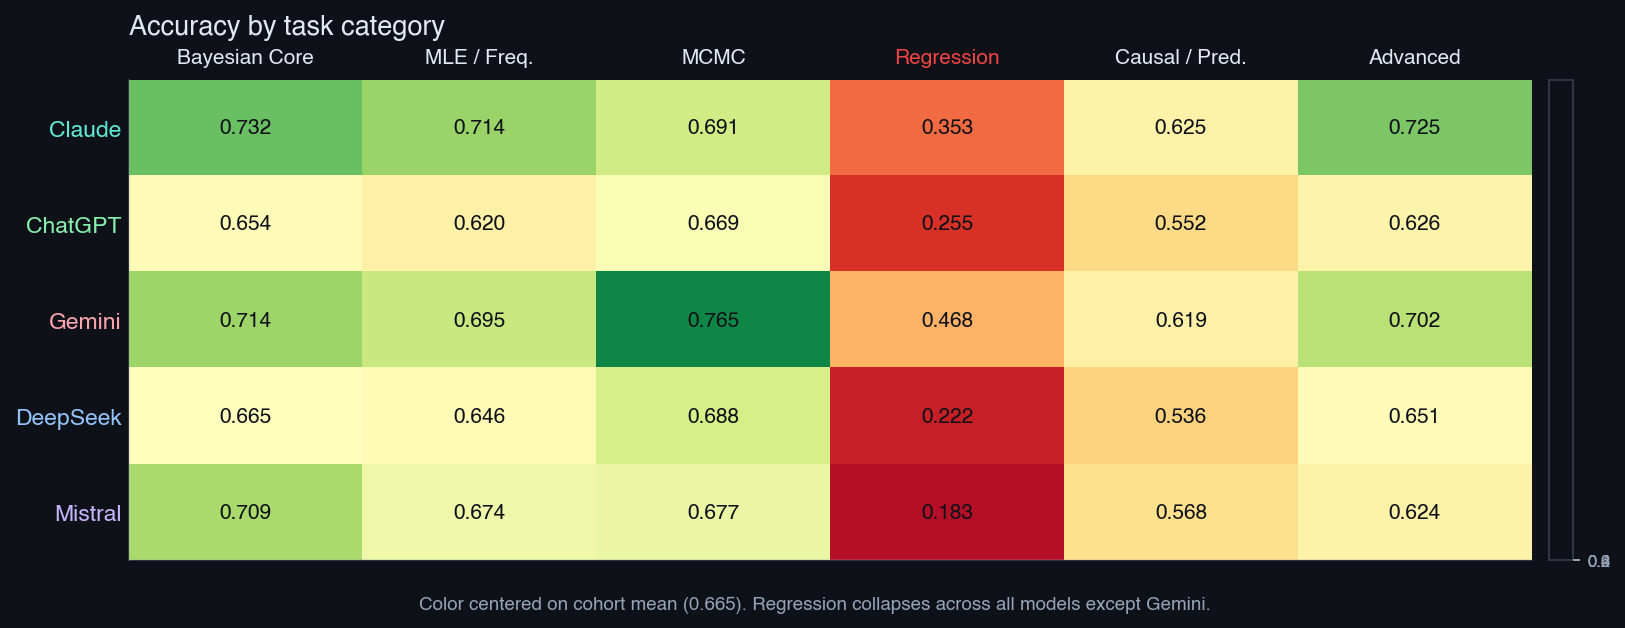
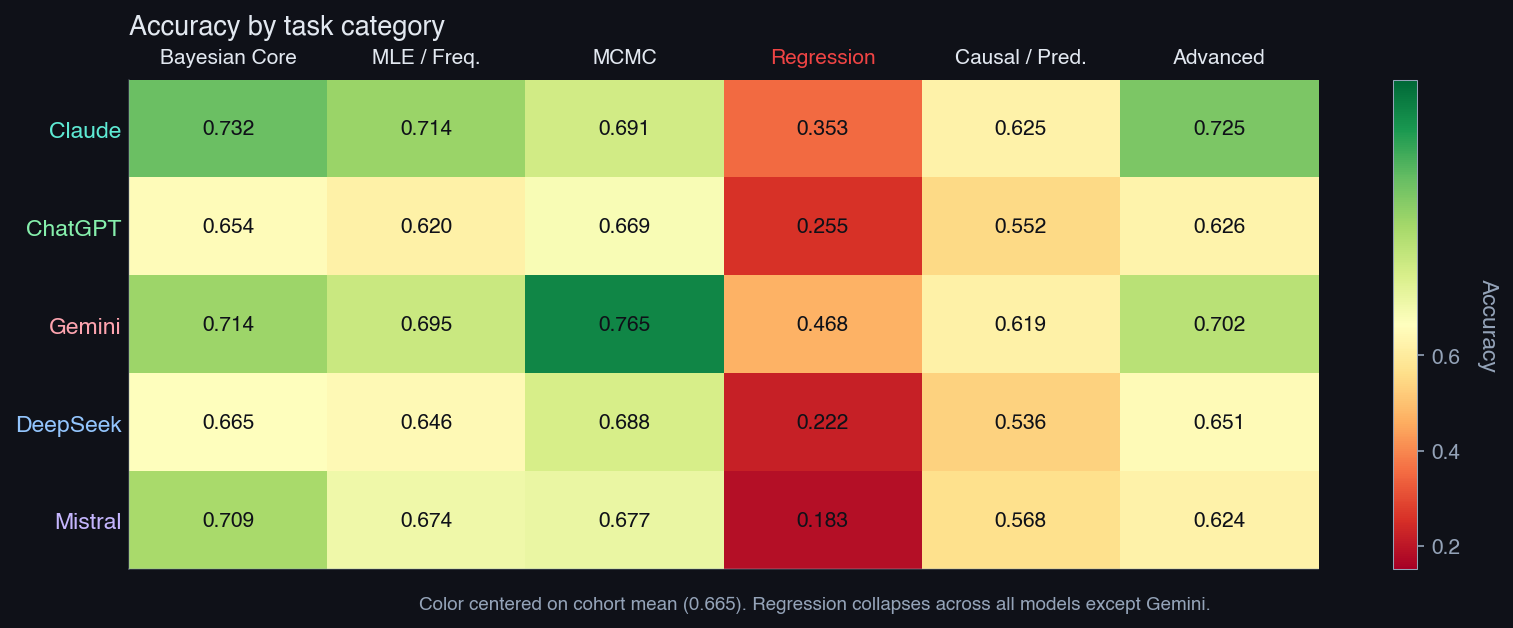
4 chart redesigns: judge heatmap teal+borders, robustness asterisk footer, calibration→dot plot, accuracy colorbar restored

diff --git a/capstone-website/frontend/src/data/visualizations.js b/capstone-website/frontend/src/data/visualizations.js
@@ -165,9 +165,9 @@ export const VISUALIZATIONS = [
   },
   {
     id: 'calibration_reliability', category: 'calibration',
-    title: 'Calibration gap detail',
-    subtitle: 'Per-bucket gap between claimed confidence and empirical accuracy',
-    caption: 'Negative cells = overconfident (claimed > observed); positive = underconfident. DeepSeek shows extreme swings (+0.20 at 0.5 → −0.21 at 0.6); Claude near-zero across buckets.',
+    title: 'Calibration gap by confidence bucket',
+    subtitle: 'Per-bucket signed gap, model × confidence-level',
+    caption: "Distance from zero shows miscalibration magnitude. DeepSeek's 0.6 bucket is severely overconfident (−0.21); Claude near-zero across buckets.",
     source: 'experiments/results_v2/calibration.json',
     png: '/visualizations/png/v2/calibration_reliability_smallmultiples.png',
   },

diff --git a/scripts/calibration_analysis.py b/scripts/calibration_analysis.py
@@ -251,15 +251,20 @@ def make_reliability_figure(per_model: dict, paths: list[Path]) -> None:
 
 
 def make_reliability_smallmultiples(per_model: dict, paths: list[Path]) -> None:
-    """5×3 calibration-gap heatmap: empirical accuracy − claimed confidence.
+    """Horizontal diverging dot plot: signed calibration gap by model × bucket.
 
-    Replaces the prior 1×5 reliability-diagram small-multiples. Filename
-    preserved so manifest paths stay valid.
+    5 model rows on y-axis × 3 confidence buckets per row (0.3 / 0.5 / 0.6),
+    marker size encodes bucket, marker color encodes gap direction/magnitude
+    via RdBu_r. Filename preserved so manifest paths stay valid.
     """
     import matplotlib.colors as mcolors
+    from site_palette import COLOR_GOOD, COLOR_BAD
 
-    bucket_order = ["low", "unstated", "medium"]
-    bucket_labels = ["0.3", "0.5", "0.6"]
+    buckets = [
+        ("low",      0.3, 80),
+        ("unstated", 0.5, 140),
+        ("medium",   0.6, 220),
+    ]
     models = ["claude", "chatgpt", "gemini", "deepseek", "mistral"]
     DISPLAY = {
         "claude":   "Claude",
@@ -269,49 +274,48 @@ def make_reliability_smallmultiples(per_model: dict, paths: list[Path]) -> None:
         "mistral":  "Mistral",
     }
 
-    M = np.full((len(models), len(bucket_order)), np.nan)
+    norm = mcolors.TwoSlopeNorm(vcenter=0.0, vmin=-0.25, vmax=0.25)
+    cmap = plt.get_cmap("RdBu_r")
+
+    fig, ax = plt.subplots(figsize=(11, 4.5), dpi=150, facecolor=SITE_BG)
+    ax.set_facecolor(SITE_BG)
+
+    # Background tinting: x<0 faint red, x>0 faint blue.
+    ax.axvspan(-0.27, 0.0, color=COLOR_BAD, alpha=0.05, zorder=0)
+    ax.axvspan(0.0, 0.27, color=COLOR_GOOD, alpha=0.05, zorder=0)
+
+    # Reference line at zero.
+    ax.axvline(0.0, color="white", lw=1.2, alpha=0.85, zorder=2)
+    ax.text(0.003, -0.7, "perfect calibration",
+            ha="left", va="center",
+            fontsize=8.5, color=SITE_FG_MUTED, style="italic")
+
     for i, m in enumerate(models):
         info = per_model.get(m)
         if not info:
             continue
-        for j, b in enumerate(bucket_order):
-            d = info["per_bucket"].get(b, {})
-            if d.get("n", 0) > 0 and d.get("mean_accuracy") is not None:
-                M[i, j] = d["mean_accuracy"] - d["claimed_confidence"]
-
-    norm = mcolors.TwoSlopeNorm(vcenter=0.0, vmin=-0.25, vmax=0.25)
-    cmap = plt.get_cmap("RdBu_r")
-
-    fig, ax = plt.subplots(figsize=(11, 4), dpi=150, facecolor=SITE_BG)
-    ax.set_facecolor(SITE_BG)
-
-    # Mask NaNs so imshow paints them transparent; gray fill drawn separately.
-    im = ax.imshow(np.ma.masked_invalid(M), cmap=cmap, norm=norm,
-                   aspect="auto", origin="upper")
-
-    for i in range(len(models)):
-        for j in range(len(bucket_order)):
-            v = M[i, j]
-            if np.isnan(v):
-                ax.add_patch(plt.Rectangle((j - 0.5, i - 0.5), 1, 1,
-                                           facecolor="#3a3f4b", edgecolor=SITE_BG,
-                                           linewidth=0.5, zorder=2))
-                ax.text(j, i, "n/a", ha="center", va="center",
-                        fontsize=10, color=SITE_FG_MUTED, fontweight="600",
-                        zorder=3)
+        for bucket_key, claimed, size in buckets:
+            d = info["per_bucket"].get(bucket_key, {})
+            if d.get("n", 0) == 0 or d.get("mean_accuracy") is None:
                 continue
-            sign = "+" if v >= 0 else "−"
-            ax.text(j, i, f"{sign}{abs(v):.2f}", ha="center", va="center",
-                    fontsize=11, color="black", fontweight="700")
+            gap = d["mean_accuracy"] - claimed
+            ax.scatter([gap], [i], s=size, c=[cmap(norm(gap))],
+                       edgecolors=SITE_BG, linewidths=1.5, zorder=4)
+            sign = "+" if gap >= 0 else "−"
+            ax.annotate(f"{sign}{abs(gap):.2f}",
+                        xy=(gap, i),
+                        xytext=(8, 0), textcoords="offset points",
+                        ha="left", va="center",
+                        fontsize=9, color="black", fontweight="700",
+                        bbox=dict(boxstyle="round,pad=0.25",
+                                  facecolor=SITE_FG_MUTED, alpha=0.85,
+                                  edgecolor="none"),
+                        zorder=5)
 
-    ax.set_xticks(range(len(bucket_order)))
-    ax.set_xticklabels(bucket_labels, fontsize=10, color=SITE_FG)
-    ax.xaxis.tick_top()
-    ax.tick_params(axis="x", which="major", pad=6, length=0)
-    ax.set_xlabel("Claimed confidence bucket", fontsize=9,
-                  color=SITE_FG_MUTED, labelpad=8)
-    ax.xaxis.set_label_position("top")
-
+    ax.set_xlim(-0.27, 0.27)
+    ax.set_ylim(len(models) - 0.5, -0.85)
+    ax.set_xticks([-0.25, -0.125, 0.0, 0.125, 0.25])
+    ax.tick_params(axis="x", colors=SITE_FG_MUTED, labelsize=9)
     ax.set_yticks(range(len(models)))
     ax.set_yticklabels([DISPLAY[m] for m in models],
                        fontsize=11, fontweight="700")
@@ -319,25 +323,21 @@ def make_reliability_smallmultiples(per_model: dict, paths: list[Path]) -> None:
         tick.set_color(MODEL_COLORS.get(m, SITE_FG))
     ax.tick_params(axis="y", which="major", length=0)
 
-    for spine in ax.spines.values():
-        spine.set_color(SITE_FG_MUTED)
-        spine.set_alpha(0.3)
-        spine.set_linewidth(0.8)
+    ax.set_xlabel("overconfident  ·  calibrated  ·  underconfident",
+                  fontsize=10, color=SITE_FG_MUTED, labelpad=8)
+    dim_remaining_spines(ax)
+    ax.grid(axis="x", linestyle="-", alpha=0.06, color="#ffffff")
+    ax.set_axisbelow(True)
 
-    ax.set_title("Calibration gap · empirical accuracy − claimed confidence",
-                 fontsize=13, fontweight="700", color=SITE_FG, pad=28, loc="left")
-    fig.text(0.02, 0.90,
-             "Negative = overconfident · zero = calibrated · positive = underconfident",
-             ha="left", fontsize=9, style="italic", color=SITE_FG_MUTED)
+    ax.set_title("Calibration gap by confidence bucket",
+                 fontsize=13, fontweight="700", color=SITE_FG, pad=22, loc="left")
+    ax.text(0.0, 1.02,
+            "Marker size = bucket (small=0.3, medium=0.5, large=0.6) · "
+            "color = gap direction",
+            transform=ax.transAxes, ha="left", va="bottom",
+            fontsize=9, style="italic", color=SITE_FG_MUTED)
 
-    cbar = fig.colorbar(im, ax=ax, fraction=0.025, pad=0.012)
-    cbar.set_ticks([-0.25, -0.125, 0.0, 0.125, 0.25])
-    cbar.ax.tick_params(labelsize=8, colors=SITE_FG_MUTED)
-    if cbar.outline is not None:
-        cbar.outline.set_edgecolor(SITE_FG_MUTED)
-        cbar.outline.set_alpha(0.3)
-
-    fig.tight_layout(rect=(0, 0.03, 1, 0.92))
+    fig.tight_layout(rect=(0, 0.02, 1, 0.96))
     for path in paths:
         path.parent.mkdir(parents=True, exist_ok=True)
         fig.savefig(path, dpi=150, bbox_inches="tight", facecolor=SITE_BG)

diff --git a/scripts/keyword_vs_judge_agreement.py b/scripts/keyword_vs_judge_agreement.py
@@ -16,7 +16,6 @@ from pathlib import Path
 import matplotlib
 matplotlib.use("Agg")
 import matplotlib.colors as mcolors
-import matplotlib.patheffects as pe
 import matplotlib.pyplot as plt
 import numpy as np
 from scipy import stats
@@ -28,6 +27,7 @@ import sys
 sys.path.insert(0, str(Path(__file__).resolve().parent))
 from site_palette import (
     SITE_BG, SITE_FG, SITE_FG_MUTED, MODEL_COLORS,
+    ACCENT_TEAL, COLOR_GOOD, COLOR_BAD,
     apply_site_theme, color_code_model_ticks, dim_remaining_spines,
 )
 
@@ -203,9 +203,10 @@ def make_scatter_figure(joined: list[dict], path: Path) -> None:
     bin_centers = np.array([0.0, 0.25, 0.5, 0.75, 1.0])
     bin_edges = np.array([-0.125, 0.125, 0.375, 0.625, 0.875, 1.125])
 
-    fig, axes = plt.subplots(1, 4, figsize=(15, 4), dpi=150, facecolor=SITE_BG)
-    cmap = plt.get_cmap("viridis")
-    label_stroke = [pe.withStroke(linewidth=1.4, foreground="black")]
+    fig, axes = plt.subplots(1, 4, figsize=(15, 4.5), dpi=150, facecolor=SITE_BG)
+    cmap = mcolors.LinearSegmentedColormap.from_list(
+        "teal_seq", [SITE_BG, "#2dd4bf", "#5eead4", "#a7f3d0"]
+    )
 
     for ax, (title, kw_field, jd_field) in zip(axes, panels):
         ax.set_facecolor(SITE_BG)
@@ -221,13 +222,12 @@ def make_scatter_figure(joined: list[dict], path: Path) -> None:
         ys = np.array(ys)
 
         H, _, _ = np.histogram2d(ys, xs, bins=[bin_edges, bin_edges])
-        total = H.sum()
-        diag = np.trace(H) if H.shape[0] == H.shape[1] else 0.0
-        off_pct = (1.0 - diag / total) * 100.0 if total > 0 else 0.0
+        total = int(H.sum())
+        diag_total = float(np.trace(H)) if H.shape[0] == H.shape[1] else 0.0
+        off_pct = (1.0 - diag_total / total) * 100.0 if total > 0 else 0.0
 
-        log_H = np.log1p(H)
-        norm = mcolors.Normalize(vmin=0.0, vmax=max(log_H.max(), 1e-6))
-        ax.imshow(log_H, cmap=cmap, norm=norm, origin="lower",
+        norm = mcolors.PowerNorm(gamma=0.5, vmin=0.0, vmax=max(H.max(), 1.0))
+        ax.imshow(H, cmap=cmap, norm=norm, origin="lower",
                   aspect="auto",
                   extent=(-0.5, len(bin_centers) - 0.5,
                           -0.5, len(bin_centers) - 0.5))
@@ -238,18 +238,33 @@ def make_scatter_figure(joined: list[dict], path: Path) -> None:
                 if count == 0:
                     continue
                 ax.text(j, i, str(count), ha="center", va="center",
-                        fontsize=9, color="white", fontweight="700",
-                        path_effects=label_stroke)
+                        fontsize=11, color="black", fontweight="700")
 
-        ax.plot([-0.5, len(bin_centers) - 0.5],
-                [-0.5, len(bin_centers) - 0.5],
-                color="white", lw=1.0, ls="--", alpha=0.5)
+        # Diagonal cells: green border. Off-diag w/ count>50: red border.
+        for i in range(H.shape[0]):
+            for j in range(H.shape[1]):
+                count = int(H[i, j])
+                if i == j:
+                    rect = plt.Rectangle((j - 0.5, i - 0.5), 1, 1,
+                                         fill=False, edgecolor=COLOR_GOOD,
+                                         linewidth=2.0, zorder=4)
+                    ax.add_patch(rect)
+                elif count > 50:
+                    rect = plt.Rectangle((j - 0.5, i - 0.5), 1, 1,
+                                         fill=False, edgecolor=COLOR_BAD,
+                                         linewidth=1.5, zorder=4)
+                    ax.add_patch(rect)
 
-        ax.text(0.03, 0.97,
+        ax.text(0.97, 0.97,
                 f"off-diagonal: {off_pct:.1f}%",
-                transform=ax.transAxes, ha="left", va="top",
-                fontsize=9, fontweight="700",
-                color="white", path_effects=label_stroke)
+                transform=ax.transAxes, ha="right", va="top",
+                fontsize=10, fontweight="700", color=SITE_FG,
+                bbox=dict(boxstyle="round,pad=0.4", facecolor=SITE_BG,
+                          edgecolor=ACCENT_TEAL, lw=1),
+                zorder=5)
+        ax.text(0.97, 0.04, f"n = {total}",
+                transform=ax.transAxes, ha="right", va="bottom",
+                fontsize=8, color=SITE_FG_MUTED, fontweight="600")
 
         ax.set_xticks(range(len(bin_centers)))
         ax.set_yticks(range(len(bin_centers)))

diff --git a/scripts/generate_group_a_figures.py b/scripts/generate_group_a_figures.py
@@ -341,14 +341,16 @@ def figure_a2():
     ax.set_title("Accuracy by task category",
                  fontsize=13, fontweight="700", color=SITE_FG, pad=22, loc="left")
 
-    cbar = fig.colorbar(im, ax=ax, fraction=0.025, pad=0.012)
-    cbar.set_label("Accuracy", fontsize=9, color=SITE_FG_MUTED,
+    cbar = fig.colorbar(im, ax=ax, ticks=[0.2, 0.4, 0.6, 0.8])
+    cbar.set_label("Accuracy", color=SITE_FG_MUTED, fontsize=11,
                    rotation=270, labelpad=18)
-    cbar.set_ticks([0.2, 0.4, 0.6, 0.8])
-    cbar.ax.tick_params(labelsize=8, colors=SITE_FG_MUTED)
+    cbar.ax.tick_params(colors=SITE_FG_MUTED, labelsize=10)
+    cbar.ax.yaxis.set_tick_params(color=SITE_FG_MUTED)
+    for tick_label in cbar.ax.get_yticklabels():
+        tick_label.set_color(SITE_FG_MUTED)
     if cbar.outline is not None:
         cbar.outline.set_edgecolor(SITE_FG_MUTED)
-        cbar.outline.set_alpha(0.3)
+        cbar.outline.set_linewidth(0.5)
 
     fig.text(0.5, 0.01,
              f"Color centered on cohort mean ({overall_mean:.3f}). "

diff --git a/scripts/recompute_downstream.py b/scripts/recompute_downstream.py
@@ -372,6 +372,10 @@ def fig_a4b_per_dim_robustness(rob: Dict[str, Any]) -> None:
     cbar = plt.colorbar(im, ax=ax, fraction=0.04, pad=0.04)
     style_colorbar(cbar, label="Δ (negative = robust gain)")
     fig.tight_layout()
+    fig.subplots_adjust(bottom=0.18)
+    fig.text(0.5, 0.02,
+             "* indicates |Δ| > 0.03 (notable shift vs base; not a CI test)",
+             ha="center", fontsize=8.5, style="italic", color=SITE_FG_MUTED)
     out = FIG_DIR / "a4b_per_dim_robustness.png"
     fig.savefig(out, dpi=300, facecolor=SITE_BG, bbox_inches="tight")
     plt.close(fig)
